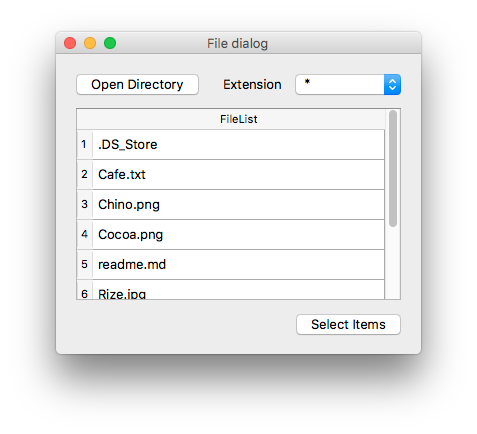
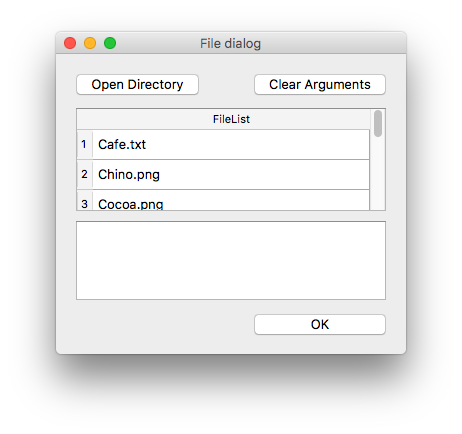
Update readme.

diff --git a/readme.md b/readme.md
@@ -7,7 +7,7 @@ This Program can work in Windows/Linux/MacOS.
 
 
 ## Demo
-Let's launch a Program.
+Let's start a Program.
 
 ![StartView](readme_resource/StartView.png)
 
@@ -15,26 +15,24 @@ Click `Open Direcory` Button.
 
 ![OpenDirectory](readme_resource/OpenDirectory.png)
 
-You can see files in selected directory.
+Selected directory files is viewed.
 
-![AllFiles](readme_resource/AllFiles.png)
-
-When you select `Extension`, files can be filtered by file extension.
-
-![FilteredFiles](readme_resource/FilteredFiles.png)
-
-Select cells and click `Select Items`. This Program is closed and your scripts will start.At that time, selected data has been added to the `sys.argv`
-
-![SelectedFiles](readme_resource/SelectedFiles.png)
-
-### Note
-Output Arguments follow the cell selection order.
-
-For exsample, If you select "Cocoa.png" followed by "Chino.png", `sys.argv` are below.
-
-	['/Users/drilldripper/Repositories/QtArgumentSelector/test.py', 'Cocoa.png', 'Chino.png']
+![AllFiles](readme_resource/SelectedFiles.png)
 
 
+Select cells and add to Argument list.
+
+![SelectedFiles](readme_resource/SelectCells.png)
+
+If you want to remove argument list, you can click `Clear Arguments`
+
+
+Click `OK`.Then this program is closed and your program will start. And selected argument is added to `sys.argv`.
+
+
+
+Also,when you will restat this program, argument history is selected.So you can rapidly test your program.
+![SelectedFiles](readme_resource/Restart.png)
 
 ## Installation
 	$git clone https://github.com/drilldripper/QtArgumentSelector.git
